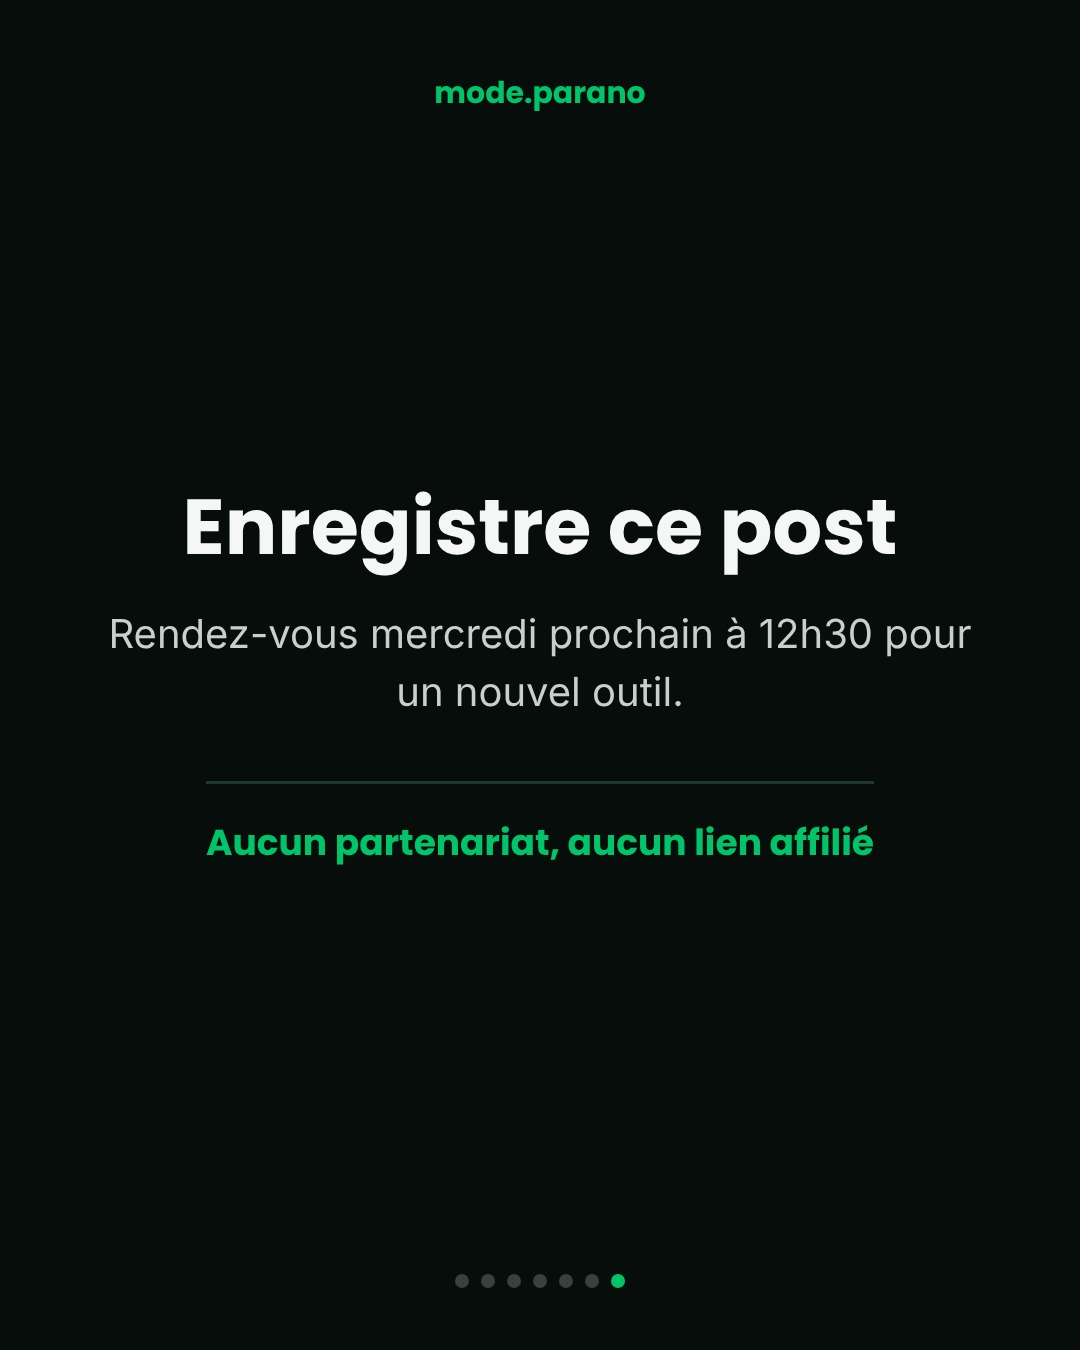
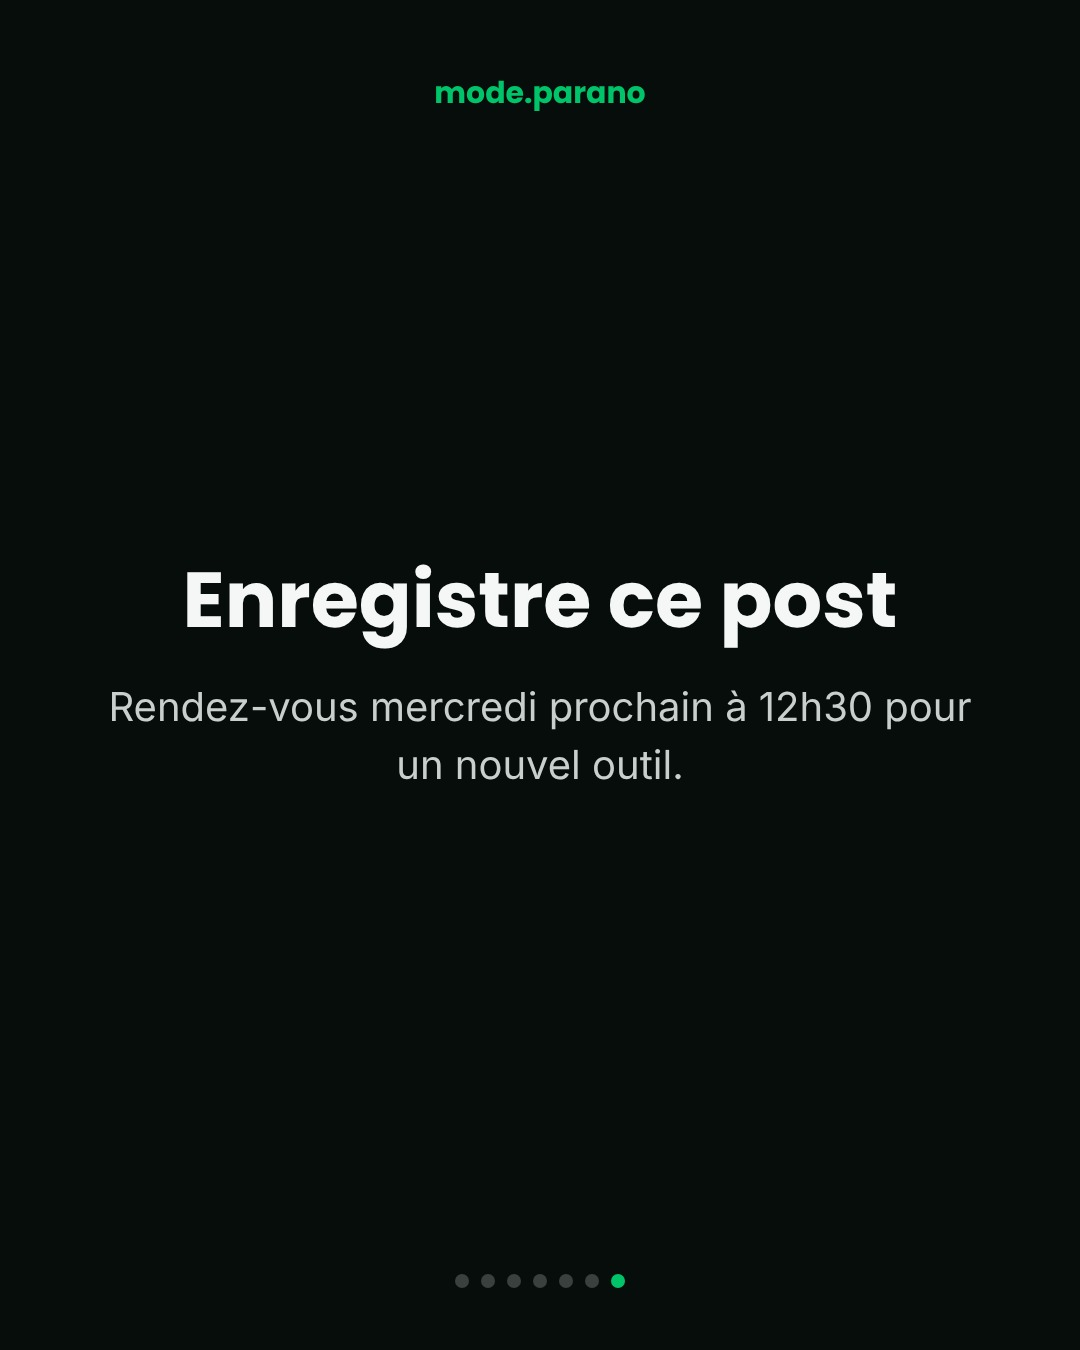
L'outil du mercredi : retrait de la mention partenariat sur la dernière slide
Claude-Session: https://claude.ai/code/session_011QyrzwJQn27YaZ2dK7JCDK

Changed region(s): [[0.0917, 0.3422, 0.8861, 0.6533]]

diff --git a/instagram-2026-11/gen_outil.js b/instagram-2026-11/gen_outil.js
@@ -7,14 +7,14 @@ const TOOLS={
   ["Reste prévenu(e)","Avec « Notify Me », tu es averti(e) si ton adresse apparaît dans une future fuite."],
   ["Ton adresse apparaît ?","Ça ne prouve pas que tu es piraté(e). Change le mot de passe du compte concerné, ne le réutilise nulle part et active la double authentification."],
   ["Les limites","Le site ne connaît que les fuites qu'il a recensées : une adresse absente ne veut pas dire « aucun risque »."]],
-  cta:["Enregistre ce post","Rendez-vous mercredi prochain à 12h30 pour un nouvel outil.","Aucun partenariat, aucun lien affilié"]},
+  cta:["Enregistre ce post","Rendez-vous mercredi prochain à 12h30 pour un nouvel outil."]},
  'instagram-2026-12/68-outil-signal':{kicker:"L'OUTIL DU MERCREDI",title:"Une messagerie qui ne lit pas tes messages",sub:"Signal : gratuit, sans pub, chiffré par défaut.",
   steps:[["C'est quoi ?","Une messagerie gratuite, gérée par une association à but non lucratif. Elle existe sur Android, iPhone et ordinateur."],
   ["Chiffrée en permanence","Messages et appels sont toujours chiffrés de bout en bout. Signal dit ne pas pouvoir les lire."],
   ["Très peu de données","D'après Signal : ton numéro pour l'inscription, le minimum technique, pas de pub et pas de suivi. Ton historique reste sur ton appareil."],
   ["Pour démarrer","Installe l'appli depuis le magasin officiel, inscris-toi, puis invite un proche. Elle ne sert que si tes contacts l'utilisent aussi."],
   ["Les limites","Un numéro de téléphone est demandé à l'inscription, et tes données techniques peuvent être transférées vers les États-Unis et d'autres pays, selon sa politique."]],
-  cta:["Enregistre ce post","Rendez-vous mercredi prochain à 12h30 pour un nouvel outil.","Aucun partenariat, aucun lien affilié"]}};
+  cta:["Enregistre ce post","Rendez-vous mercredi prochain à 12h30 pour un nouvel outil."]}};
 const css=`*{margin:0;box-sizing:border-box}body{background:#070D0A;color:#F5F7F6;font-family:Inter;position:relative}
 .br{position:absolute;top:70px;width:100%;text-align:center;font:700 30px Poppins;color:#00C46A}
 .dots{position:absolute;bottom:62px;width:100%;display:flex;justify-content:center;gap:12px}.dots i{width:14px;height:14px;border-radius:50%;background:#3a403d}.dots i.on{background:#00C46A}
@@ -29,7 +29,7 @@ for(const [dir,T] of Object.entries(TOOLS)){
  const dots=i=>slides.map((_,j)=>`<i class="${j==i?'on':''}"></i>`).join('');
  for(let i=0;i<slides.length;i++){const x=slides[i];
   const body=`${x.t!='step'?'<div class="br">mode.parano</div>':''}<div class="c ${x.t=='step'?'st':'ctr'}">`+
-  (x.t=='cover'?`<div class="k">${T.kicker}</div><h1>${T.title}</h1><p>${T.sub}</p><div class="sw">SWIPE  ›</div>`:x.t=='step'?`<div class="n">${x.n}</div><h1>${x.h}</h1><p>${x.p}</p>`:`<h1>${T.cta[0]}</h1><p>${T.cta[1]}</p><div class="b">${T.cta[2]}</div>`)+`</div><div class="dots">${dots(i)}</div>`;
+  (x.t=='cover'?`<div class="k">${T.kicker}</div><h1>${T.title}</h1><p>${T.sub}</p><div class="sw">SWIPE  ›</div>`:x.t=='step'?`<div class="n">${x.n}</div><h1>${x.h}</h1><p>${x.p}</p>`:`<h1>${T.cta[0]}</h1><p>${T.cta[1]}</p>`)+`</div><div class="dots">${dots(i)}</div>`;
   await pg.setContent(`<html><body style="width:1080px;height:1350px"><style>${css}</style>${body}</body></html>`);await pg.waitForTimeout(150);
   await pg.screenshot({path:`${dir}/0${i+1}.jpg`,type:'jpeg',quality:92});}}
 await b.close()})();
